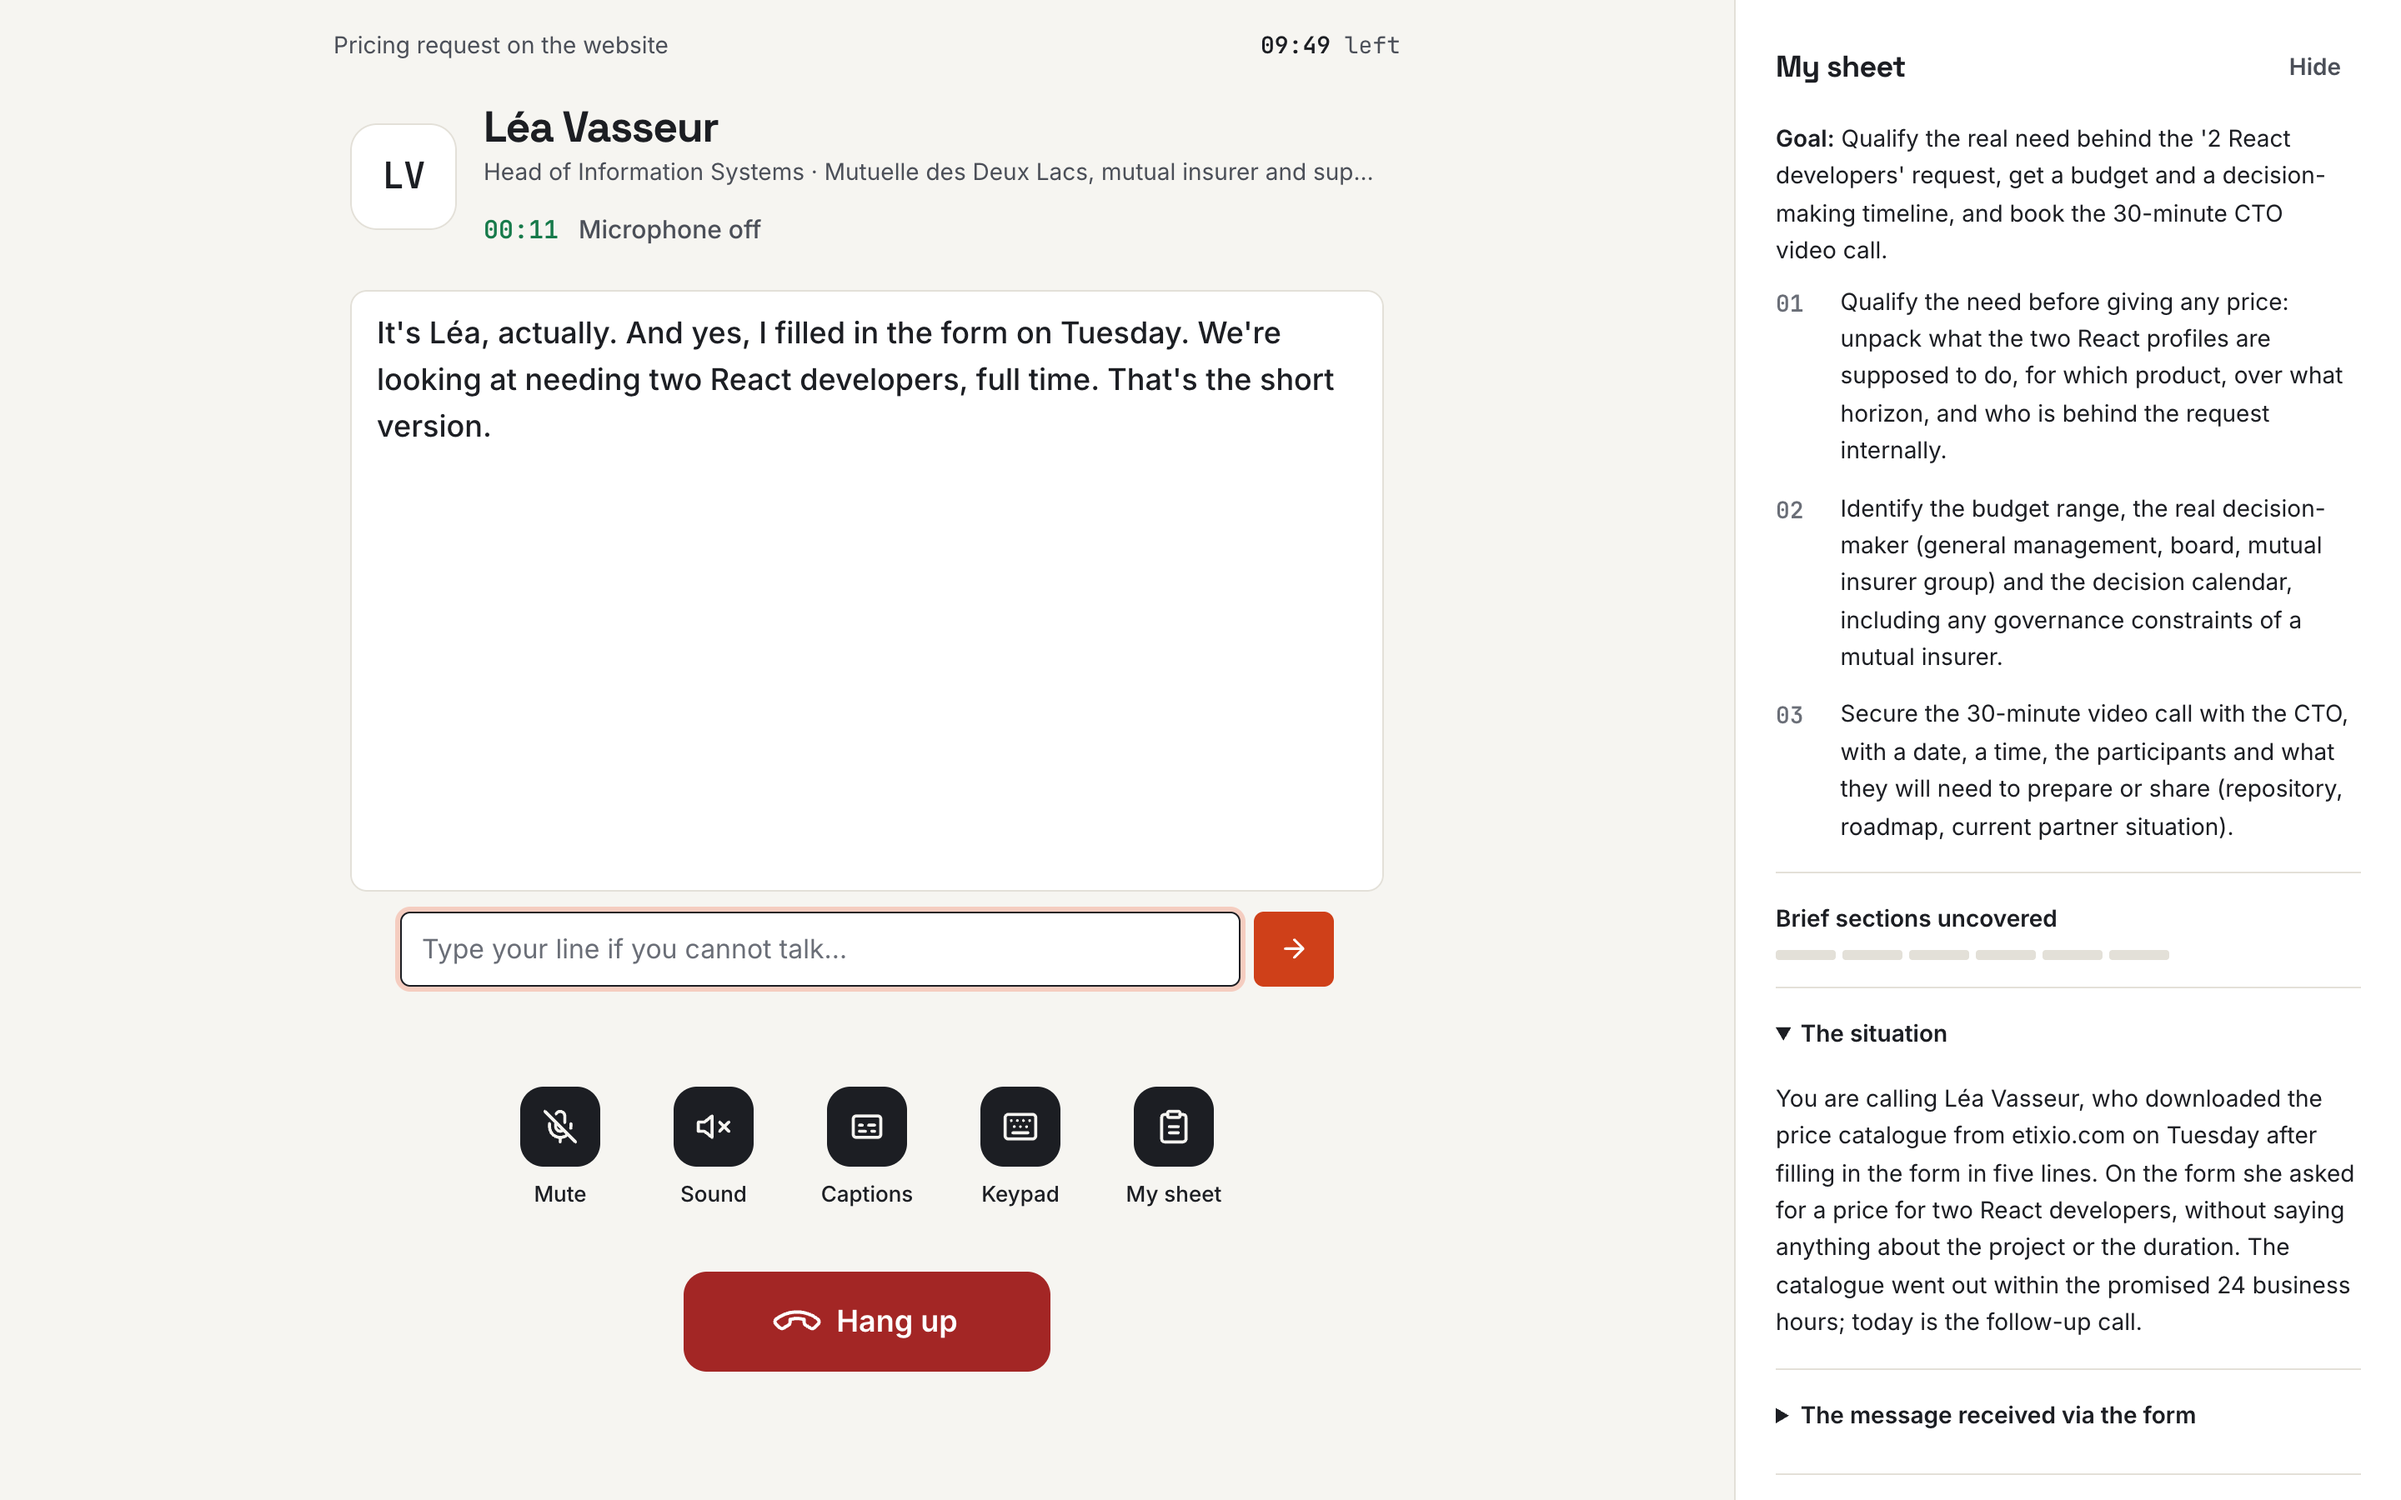
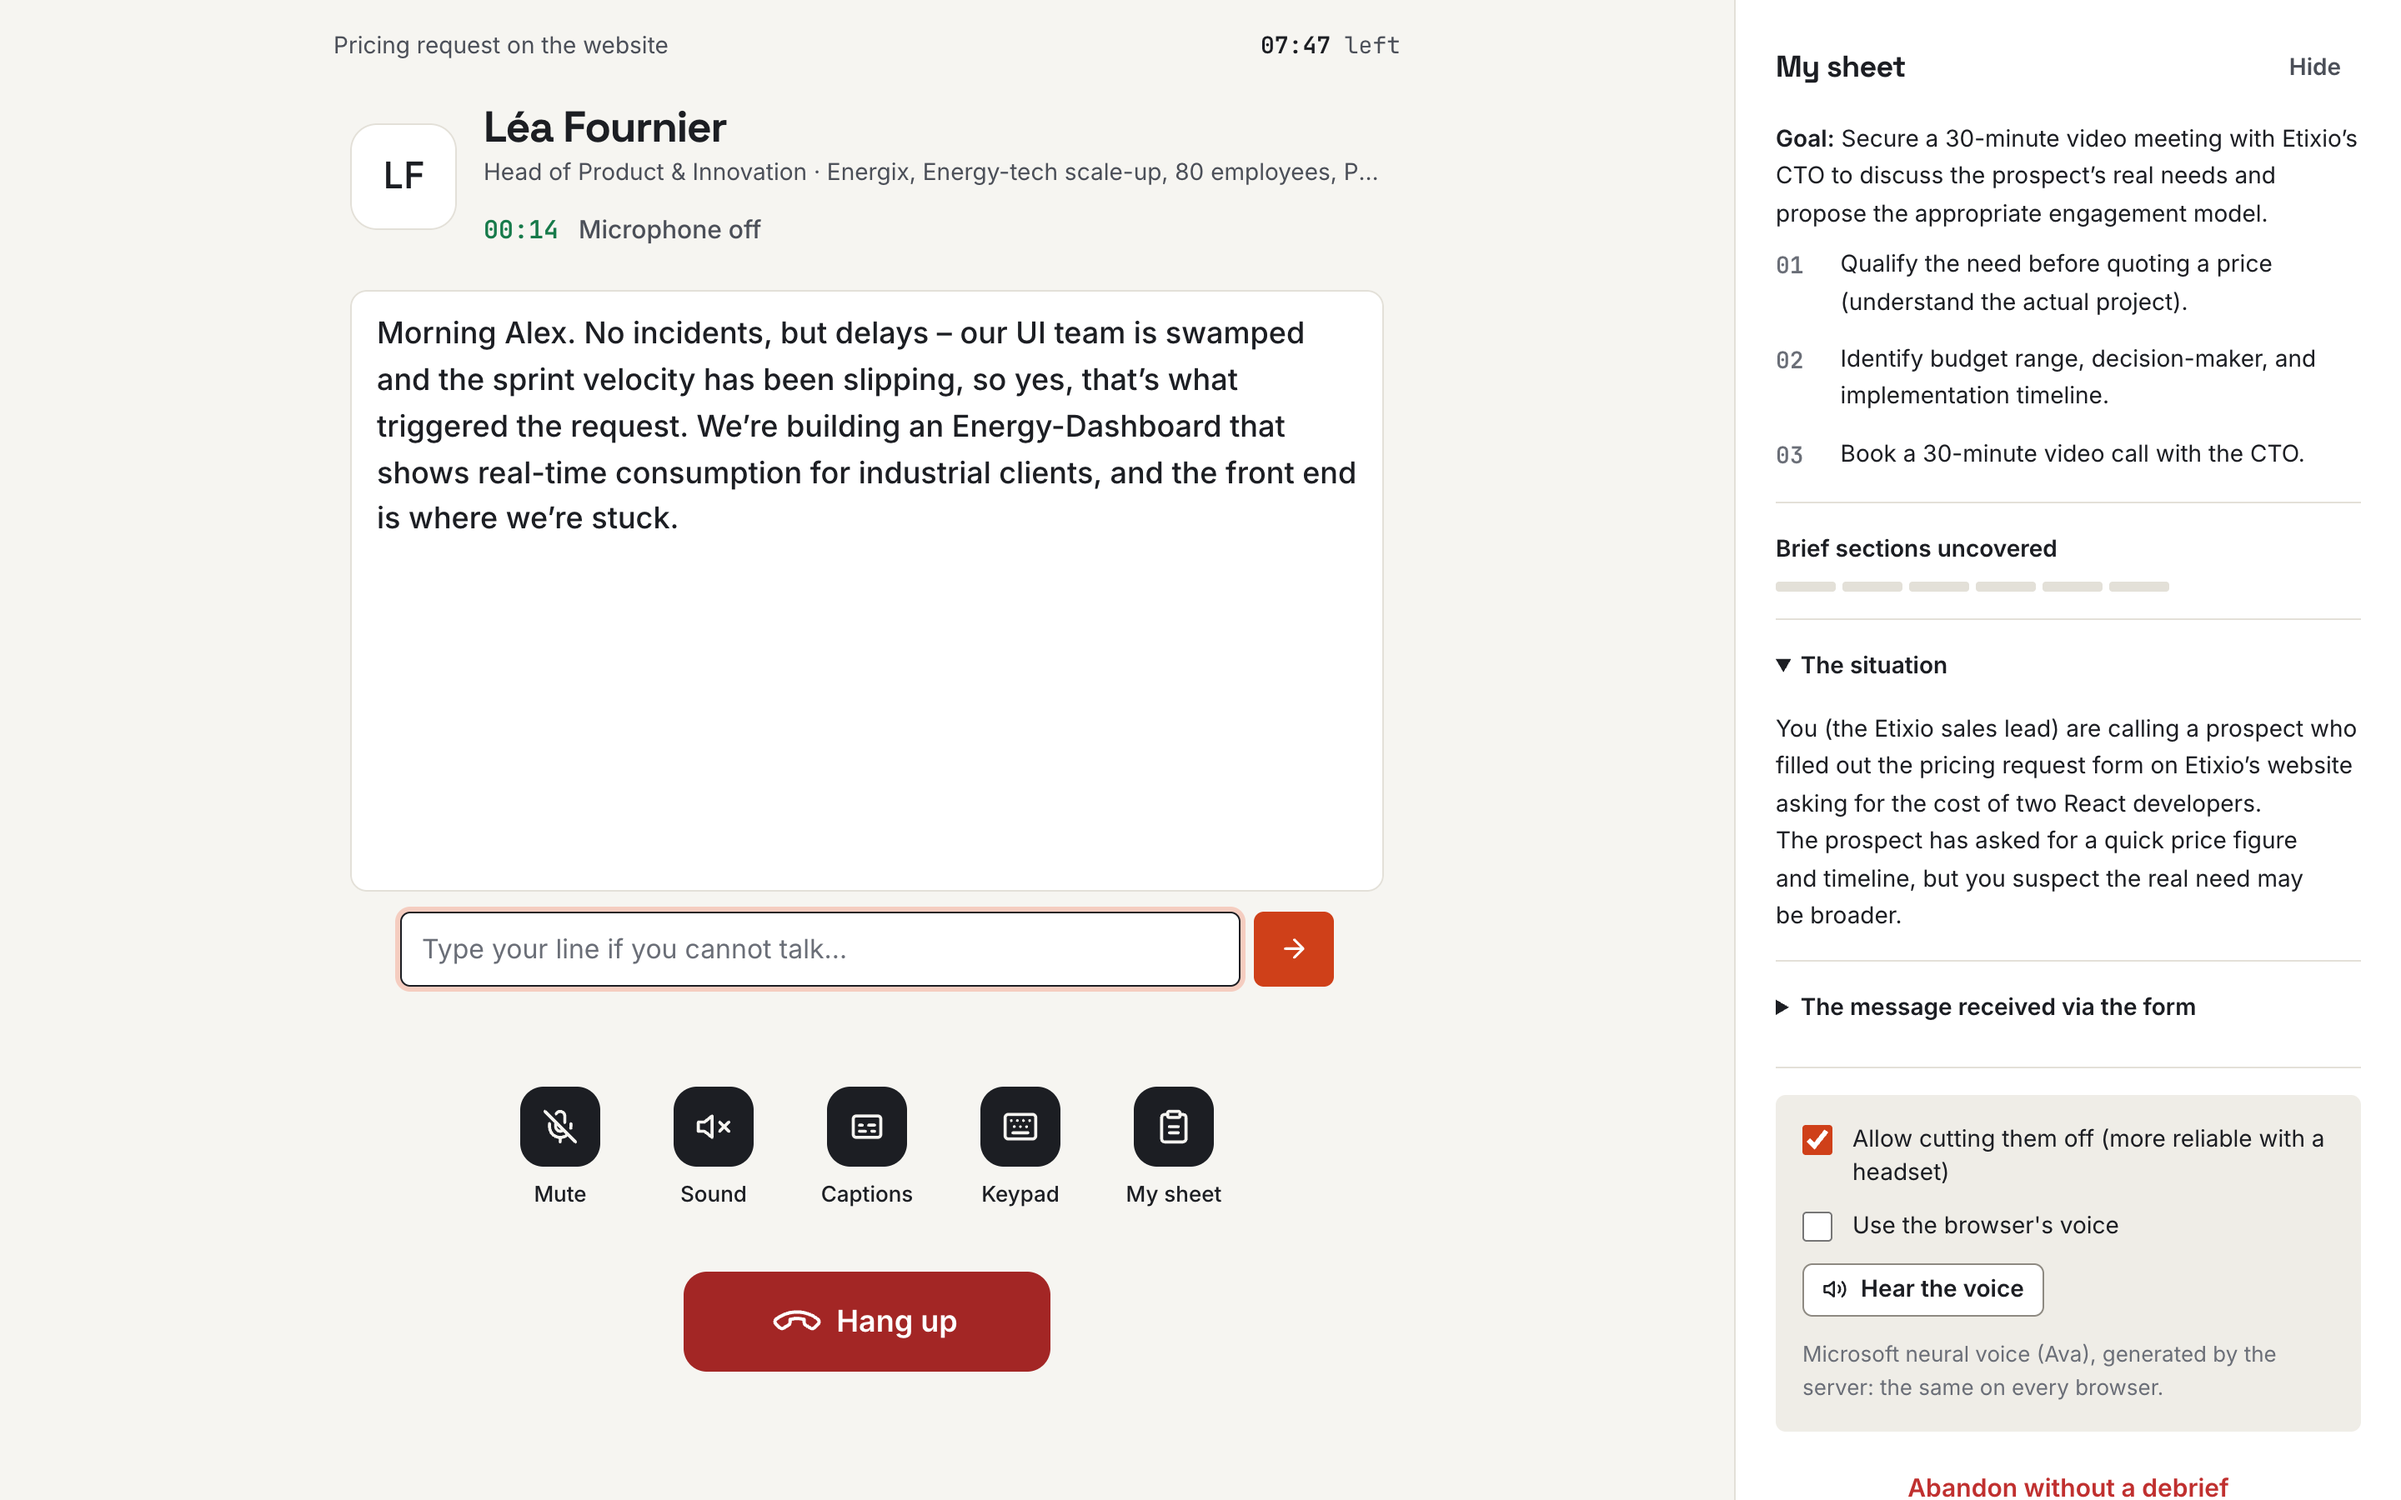
Retake the screenshots with the agents, and show actions as moments in the call
The README now shows what the client did during a call and the files they had at
hand. In the debrief, each action is dated by its moment in the call (03:15), as the
call log counts, and a record's field names read as words.

Changed region(s): [[0.7188, 0.0622, 0.9688, 1.0], [0.1562, 0.2178, 0.5625, 0.3733], [0.2188, 0.0622, 0.5625, 0.1244]]

diff --git a/README.md b/README.md
@@ -53,6 +53,10 @@ sheet and 14–18 call situations specific to its business, in English or French
 <td><img src="docs/screenshots/team.png" alt="The team board"><br><sub><b>Team</b> — each seller's difficulty, average, trend and weak spot; missions.</sub></td>
 </tr>
 <tr>
+<td><img src="docs/screenshots/debrief-agent.png" alt="What the client did during the call, and their files"><br><sub><b>The client's tools</b> — what they looked up and booked during the call, and the files they had at hand.</sub></td>
+<td><img src="docs/screenshots/phone.png" alt="The phone screen during a practice call"><br><sub><b>On the phone</b> — the client answers out loud, in their own words, from their own files.</sub></td>
+</tr>
+<tr>
 <td><img src="docs/screenshots/progress.png" alt="A seller's progress"><br><sub><b>Progress</b> — scores over time, criteria, results by situation.</sub></td>
 <td><img src="docs/screenshots/onboarding.png" alt="The first onboarding step"><br><sub><b>Onboarding</b> — the instance sets itself up from the company's website.</sub></td>
 </tr>
